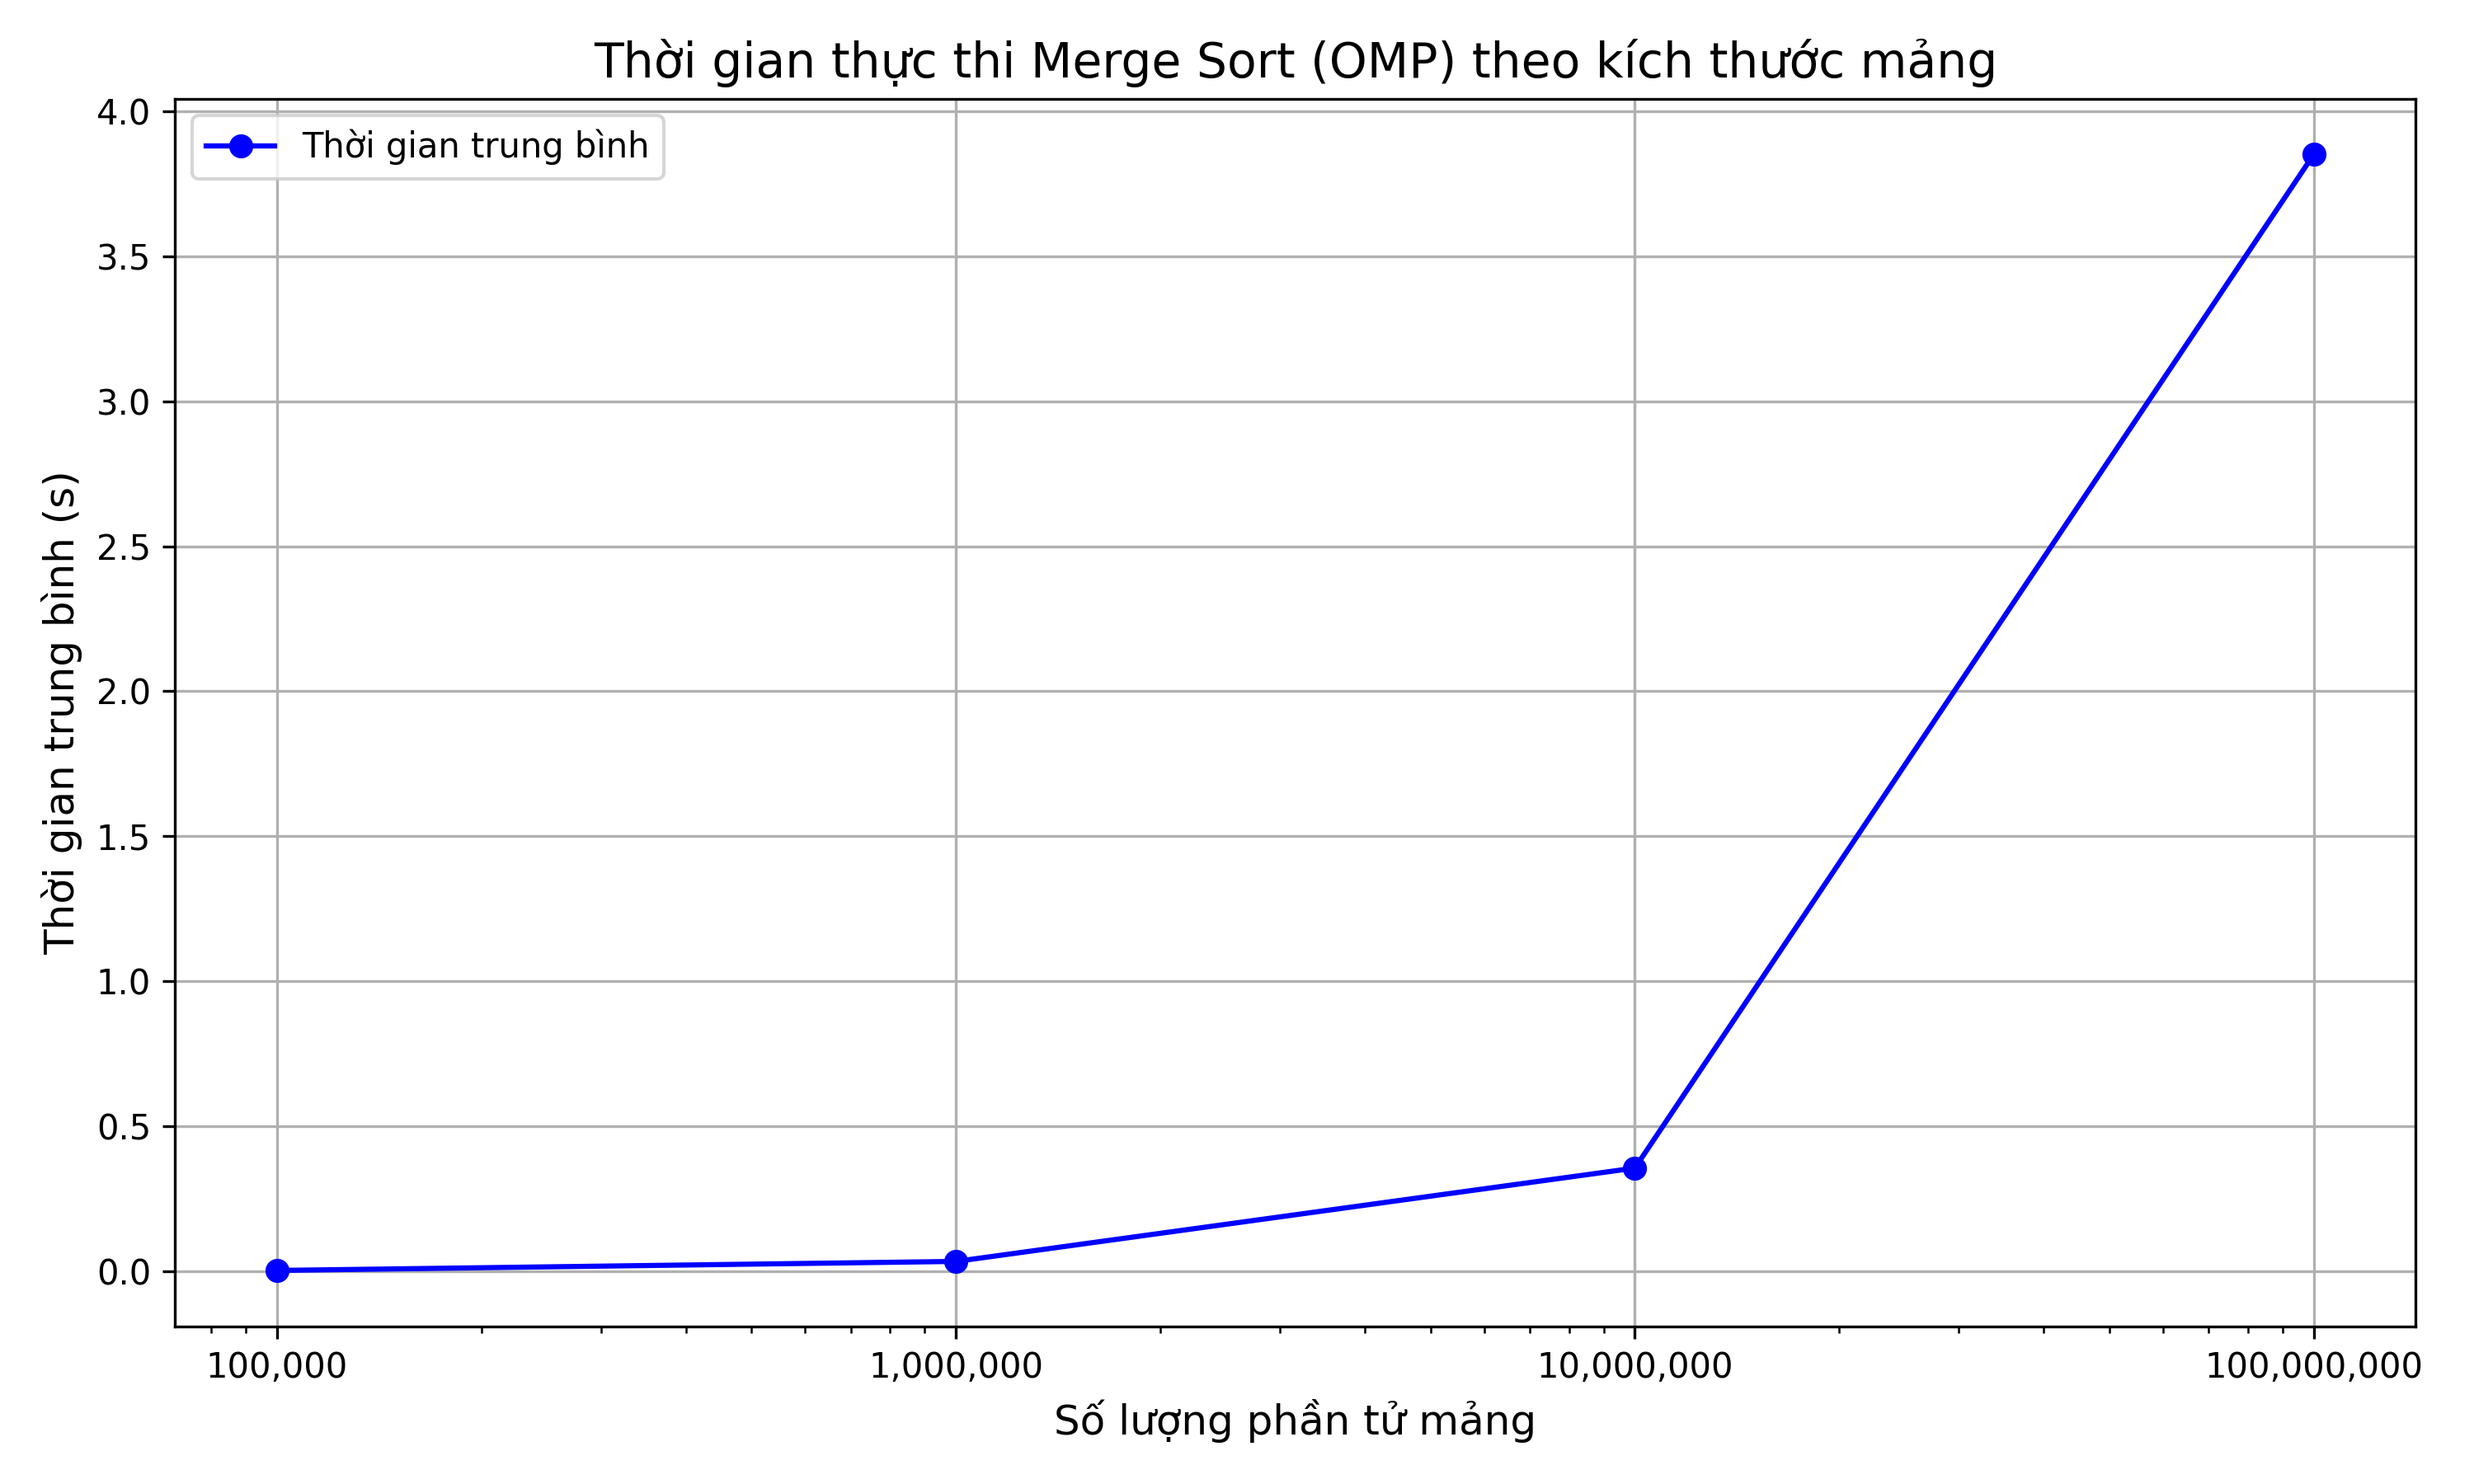
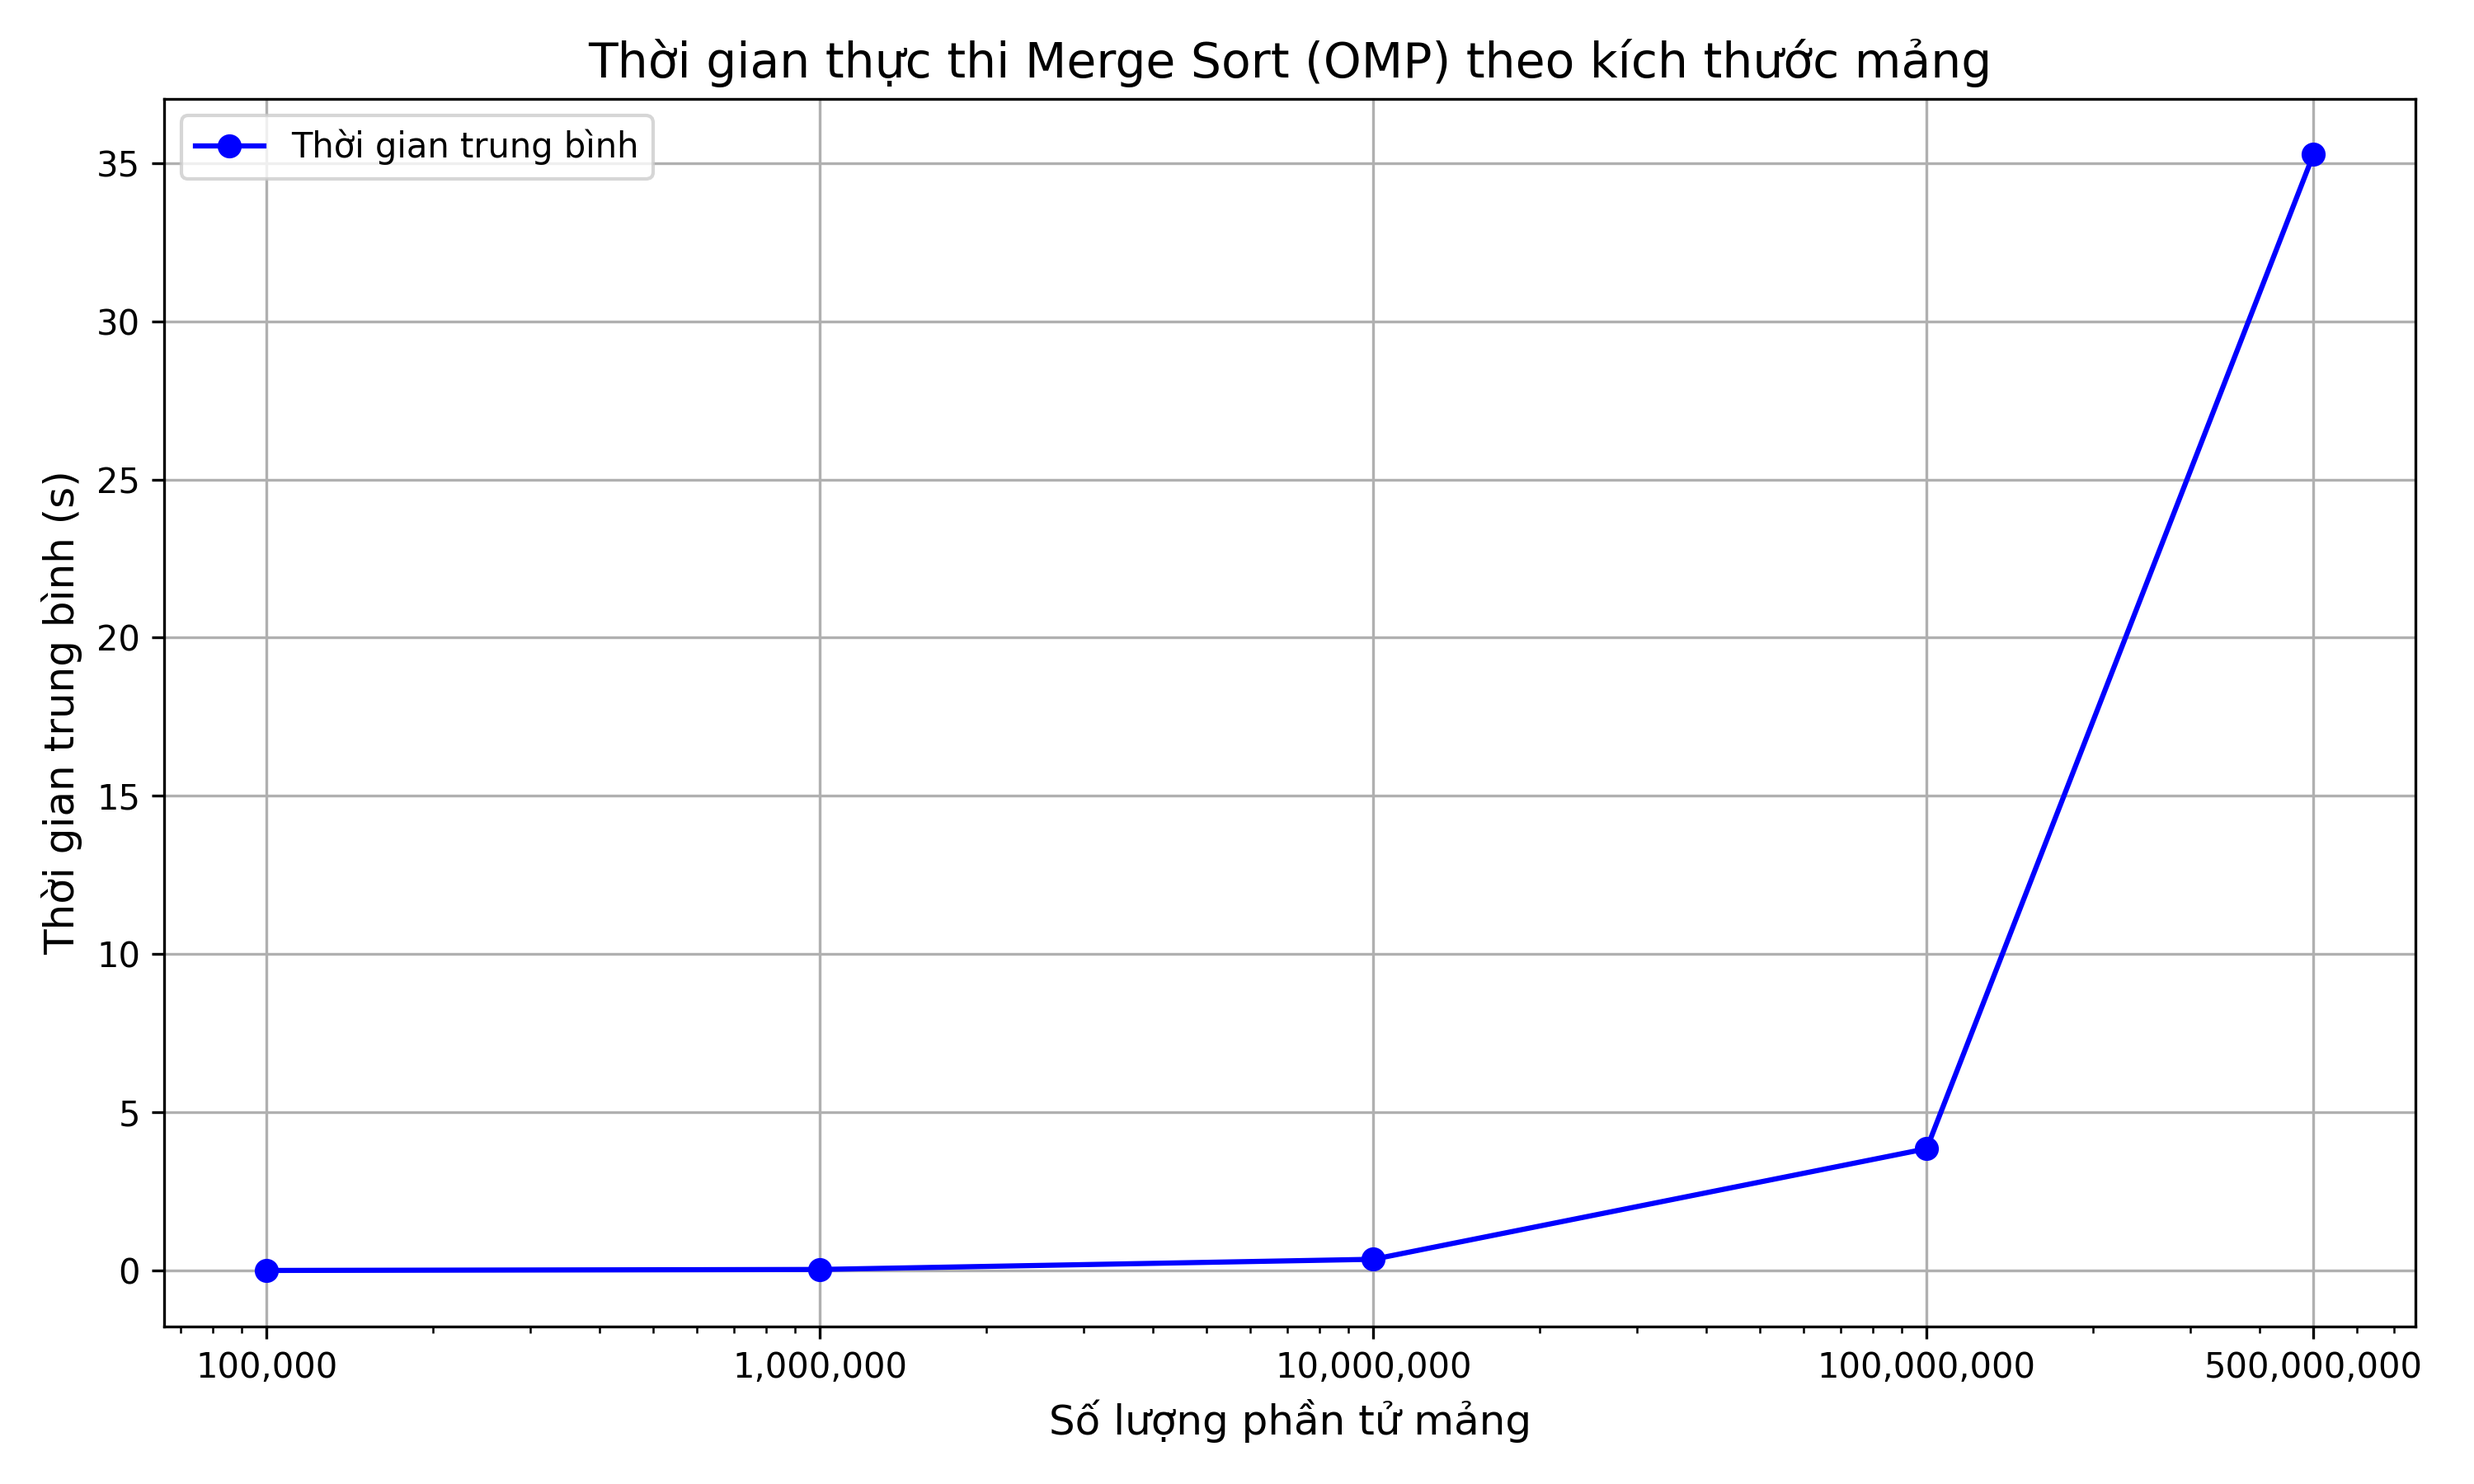
Add 500 million test

diff --git a/Python_process/compare_average_time.py b/Python_process/compare_average_time.py
@@ -7,25 +7,31 @@ sequential_files = [
     r"D:\C-C++_project\Project_2024-2\Merge_sort_sequential\Time_test\e_100k.csv",
     r"D:\C-C++_project\Project_2024-2\Merge_sort_sequential\Time_test\e_1mil.csv",
     r"D:\C-C++_project\Project_2024-2\Merge_sort_sequential\Time_test\e_10mil.csv",
-    r"D:\C-C++_project\Project_2024-2\Merge_sort_sequential\Time_test\e_100mil.csv"
+    r"D:\C-C++_project\Project_2024-2\Merge_sort_sequential\Time_test\e_100mil.csv",
+    r"D:\C-C++_project\Project_2024-2\Merge_sort_sequential\Time_test\e_500mil.csv"
+
 ]
 
 sections_files = [
     r"D:\C-C++_project\Project_2024-2\Merge_sort_omp\merge_sections\Time_test\e_100k.csv",
     r"D:\C-C++_project\Project_2024-2\Merge_sort_omp\merge_sections\Time_test\e_1mil.csv",
     r"D:\C-C++_project\Project_2024-2\Merge_sort_omp\merge_sections\Time_test\e_10mil.csv",
-    r"D:\C-C++_project\Project_2024-2\Merge_sort_omp\merge_sections\Time_test\e_100mil.csv"
+    r"D:\C-C++_project\Project_2024-2\Merge_sort_omp\merge_sections\Time_test\e_100mil.csv",
+    r"D:\C-C++_project\Project_2024-2\Merge_sort_omp\merge_sections\Time_test\e_500mil.csv"
+
 ]
 
 omp_task_files = [
     r"D:\C-C++_project\Project_2024-2\Merge_sort_omp\merge_omp_task\Time_test\e_100k.csv",
     r"D:\C-C++_project\Project_2024-2\Merge_sort_omp\merge_omp_task\Time_test\e_1mil.csv",
     r"D:\C-C++_project\Project_2024-2\Merge_sort_omp\merge_omp_task\Time_test\e_10mil.csv",
-    r"D:\C-C++_project\Project_2024-2\Merge_sort_omp\merge_omp_task\Time_test\e_100mil.csv"
+    r"D:\C-C++_project\Project_2024-2\Merge_sort_omp\merge_omp_task\Time_test\e_100mil.csv",
+    r"D:\C-C++_project\Project_2024-2\Merge_sort_omp\merge_omp_task\Time_test\e_500mil.csv"
+
 ]
 
 # Tên mốc số lượng phần tử
-array_sizes = ["100k", "1mil", "10mil", "100mil"]
+array_sizes = ["100,000", "1,000,000", "10,000,000", "100,000,000", "500,000,000"]
 
 def extract_average(file_list):
     times = []
@@ -53,8 +59,8 @@ omp_task_avg = extract_average(omp_task_files)
 # === Vẽ biểu đồ ===
 plt.figure(figsize=(10,6))
 plt.plot(array_sizes, sequential_avg, marker='o', label='Sequential', color="green")
-plt.plot(array_sizes, sections_avg, marker='s', label='OMP Sections', color="blue")
-plt.plot(array_sizes, omp_task_avg, marker='^', label='OMP Task', color="red")
+plt.plot(array_sizes, sections_avg, marker='s', label='Omp Sections', color="blue")
+plt.plot(array_sizes, omp_task_avg, marker='^', label='Omp Task', color="red")
 
 plt.xlabel("Số lượng phần tử")
 plt.ylabel("Thời gian trung bình (s)")

diff --git a/Python_process/average_time.py b/Python_process/average_time.py
@@ -4,10 +4,11 @@ import os
 
 # === Danh sách file và số lượng phần tử mảng ===
 file_info = {
-    r"D:\C-C++_project\Project_2024-2\Merge_sort_sequential\Time_test\e_100k.csv": 100_000,
-    r"D:\C-C++_project\Project_2024-2\Merge_sort_sequential\Time_test\e_1mil.csv": 1_000_000,
-    r"D:\C-C++_project\Project_2024-2\Merge_sort_sequential\Time_test\e_10mil.csv": 10_000_000,
-    r"D:\C-C++_project\Project_2024-2\Merge_sort_sequential\Time_test\e_100mil.csv": 100_000_000
+            r"D:\C-C++_project\Project_2024-2\Merge_sort_sequential\Time_test\e_100k.csv": 100_000,
+            r"D:\C-C++_project\Project_2024-2\Merge_sort_sequential\Time_test\e_1mil.csv": 1_000_000,
+            r"D:\C-C++_project\Project_2024-2\Merge_sort_sequential\Time_test\e_10mil.csv": 10_000_000,
+            r"D:\C-C++_project\Project_2024-2\Merge_sort_sequential\Time_test\e_100mil.csv": 100_000_000,
+            r"D:\C-C++_project\Project_2024-2\Merge_sort_sequential\Time_test\e_500mil.csv": 500_000_000
 }
 
 x_values = []

diff --git a/Merge_sort_omp/merge_omp_task/merge_omp_task.c b/Merge_sort_omp/merge_omp_task/merge_omp_task.c
@@ -99,7 +99,7 @@ int main(void){
     return 1;
   }
 
-  FILE *output_file = fopen("Time_test/e_100mil.csv", "w");
+  FILE *output_file = fopen("Time_test/e_500mil.csv", "w");
   if(output_file == NULL){
     printf("Khong the mo file de ghi !\n");
     free(a);

diff --git a/Merge_sort_sequential/merge_sort.c b/Merge_sort_sequential/merge_sort.c
@@ -90,7 +90,7 @@ int main() {
     return 1; 
   }
 
-  FILE *output_file = fopen("Time_test/e_100k.csv", "w");
+  FILE *output_file = fopen("Time_test/e_500mil.csv", "w");
   if(output_file == NULL){
     printf("Khong mo duoc file de ghi !\n");
     free(arr);
